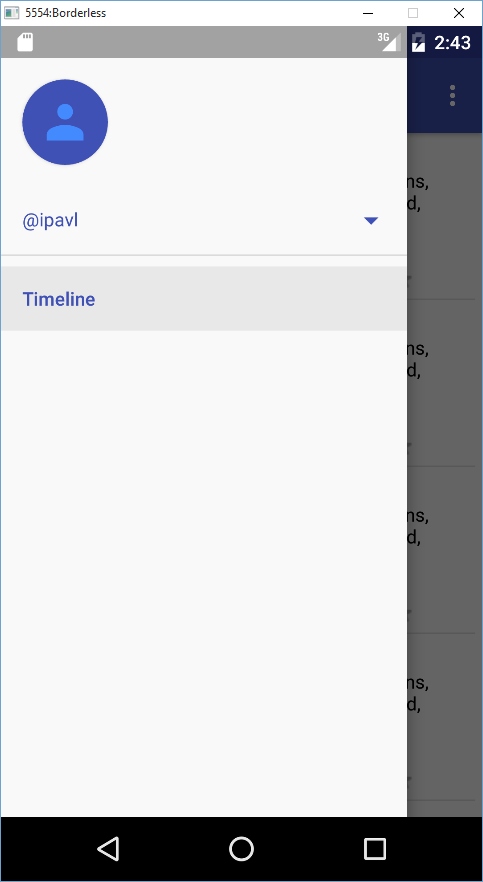
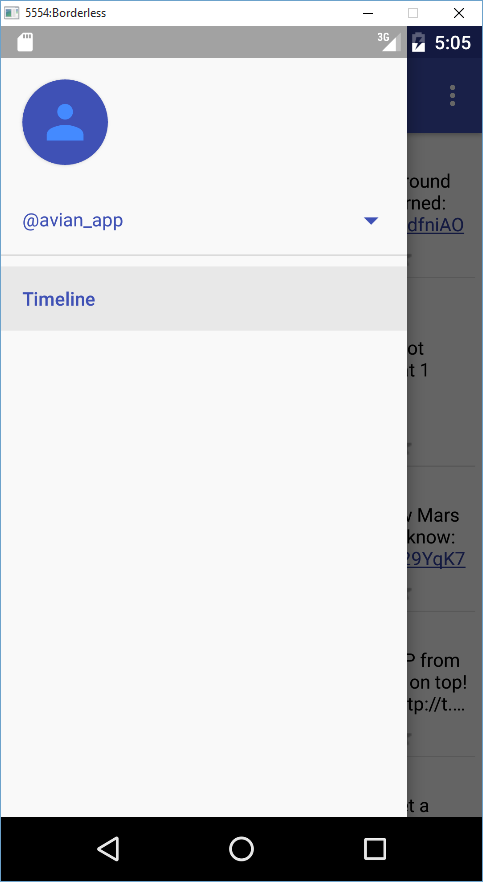
Add service to fetch and display tweets

diff --git a/app/src/main/java/ca/ianp/avian/fragment/TimelineFragment.kt b/app/src/main/java/ca/ianp/avian/fragment/TimelineFragment.kt
@@ -1,10 +1,16 @@
 package ca.ianp.avian.fragment
 
+import android.content.BroadcastReceiver
+import android.content.Context
+import android.content.Intent
+import android.content.IntentFilter
 import android.support.v4.app.Fragment
 import android.os.Bundle
+import android.os.Parcel
 import android.support.v7.widget.LinearLayoutManager
 import android.support.v7.widget.RecyclerView
 import android.text.format.DateUtils
+import android.util.Log
 import android.view.LayoutInflater
 import android.view.View
 import android.view.ViewGroup
@@ -12,6 +18,8 @@ import android.view.ViewGroup
 import ca.ianp.avian.R
 import ca.ianp.avian.adapter.TimelineAdapter
 import ca.ianp.avian.data.Tweet
+import ca.ianp.avian.service.TimelineService
+import ca.ianp.avian.util.Constants
 
 import kotlinx.android.synthetic.fragment_timeline.*
 import kotlinx.android.synthetic.fragment_timeline.view.*
@@ -22,33 +30,52 @@ import java.util.*
  */
 public class TimelineFragment : Fragment() {
 
+    private var receiver: BroadcastReceiver? = null
+
     override fun onCreateView(inflater: LayoutInflater?, container: ViewGroup?, savedInstanceState: Bundle?): View? {
         val view: View = inflater!!.inflate(R.layout.fragment_timeline, container, false)
 
-        val tweets: ArrayList<Tweet> = ArrayList<Tweet>();
+        val tweets: ArrayList<Tweet>? = ArrayList<Tweet>()
+        val parcel: Parcel = Parcel.obtain()
 
-        // TODO: Replace with actual data
-        for (i in 0..2000) {
-            // Instead of displaying the raw date, convert it to a relative time, e.g. "2 hours ago"
-            val createdAtRelative = DateUtils.getRelativeTimeSpanString(
-                    System.currentTimeMillis() - i * 60 * 360,
-                    System.currentTimeMillis(),
-                    DateUtils.SECOND_IN_MILLIS
-            )
+        parcel.writeLong(-1)
+        parcel.writeString("")
+        parcel.writeString("")
+        parcel.writeString("")
+        parcel.writeString("")
+        parcel.setDataPosition(0)
 
-            tweets.add(Tweet(i.toLong(), "DummyUser" + i, "",
-                    createdAtRelative.toString(),
-                    "Lorem ipsum dolor sit amet, eum ad ridens, laoreet delicatissimi. Tale malorum" +
-                            "mel ad, pri ridens corrumpit cu? In choro http://example.com!"));
-        }
+        tweets!!.add(Tweet(parcel))
 
-        val adapter: TimelineAdapter = TimelineAdapter(tweets)
-        val recycler: RecyclerView = view.recycler_view
+        view.recycler_view.setAdapter(TimelineAdapter(tweets))
+        view.recycler_view.setHasFixedSize(true)
+        view.recycler_view.setLayoutManager(LinearLayoutManager(container?.getContext()))
 
-        recycler.setAdapter(adapter)
-        recycler.setHasFixedSize(true)
-        recycler.setLayoutManager(LinearLayoutManager(container?.getContext()))
-
+        receiver = TimelineReceiver()
+        getActivity().registerReceiver(receiver, IntentFilter(Constants.INTENT_UPDATE_TIMELINE))
+        getActivity().startService(Intent(getActivity(), javaClass<TimelineService>()))
+        Log.d(Constants.TAG, "Starting service")
         return view
+    }
+
+    override fun onDestroyView() {
+        super.onDestroyView()
+
+        try {
+            Log.d(Constants.TAG, "Stopping service")
+            getActivity().stopService(Intent(getActivity(), javaClass<TimelineService>()))
+            getActivity().unregisterReceiver(receiver)
+        } catch (e: Exception) {
+            e.getMessage()
+        }
+    }
+
+    private inner class TimelineReceiver() : BroadcastReceiver() {
+        override fun onReceive(context: Context, intent: Intent) {
+            val tweets: ArrayList<Tweet> = intent.getParcelableArrayListExtra(
+                    Constants.INTENT_TWEETS_LIST)
+            Log.d(Constants.TAG, "Received tweets")
+            recycler_view.setAdapter(TimelineAdapter(tweets))
+        }
     }
 }

diff --git a/app/src/main/java/ca/ianp/avian/service/TimelineService.kt b/app/src/main/java/ca/ianp/avian/service/TimelineService.kt
@@ -1,0 +1,107 @@
+package ca.ianp.avian.service
+
+import android.app.Service
+import android.content.Intent
+import android.content.SharedPreferences
+import android.os.AsyncTask
+import android.os.IBinder
+import android.os.Parcel
+import android.preference.PreferenceManager
+import android.text.format.DateUtils
+import android.util.Log
+import ca.ianp.avian.data.Tweet
+import ca.ianp.avian.util.Constants
+import twitter4j.Status
+import twitter4j.Twitter
+import twitter4j.TwitterFactory
+import twitter4j.conf.Configuration
+import twitter4j.conf.ConfigurationBuilder
+import java.util.ArrayList
+
+public class TimelineService() : Service() {
+    private var prefs: SharedPreferences? = null
+
+    private var updater: FetchTweets? = null
+    private var twitter: Twitter? = null
+
+    override fun onCreate() {
+        super.onCreate()
+
+        prefs = PreferenceManager.getDefaultSharedPreferences(this)
+
+        val token: String = prefs!!.getString(Constants.PREFS_USER_TOKEN, null)
+        val secret: String = prefs!!.getString(Constants.PREFS_USER_SECRET, null)
+
+        // Configuration for the Twitter4J instance
+        val twitterConfig: Configuration = ConfigurationBuilder()
+                .setOAuthConsumerKey(Constants.TWITTER_KEY)
+                .setOAuthConsumerSecret(Constants.TWITTER_SECRET)
+                .setOAuthAccessToken(token)
+                .setOAuthAccessTokenSecret(secret)
+                .setDebugEnabled(true)
+                .build()
+
+        twitter = TwitterFactory(twitterConfig).getInstance()
+    }
+
+    override fun onStartCommand(intent: Intent, flags: Int, startId: Int): Int {
+        super.onStartCommand(intent, flags, startId)
+
+        updater = FetchTweets()
+        updater!!.execute()
+
+        return Service.START_STICKY
+    }
+
+    override fun onBind(intent: Intent): IBinder? {
+        return null;
+    }
+
+    private inner class FetchTweets : AsyncTask<String, String, ArrayList<Tweet>>() {
+
+        override fun doInBackground(vararg params: String): ArrayList<Tweet> {
+            val tweets: ArrayList<Tweet> = ArrayList<Tweet>()
+
+            try {
+                Log.d(Constants.TAG, "Fetching tweets")
+                // Get the user's home timeline
+                val statuses: List<Status> = twitter!!.getHomeTimeline()
+
+                Log.d(Constants.TAG, "Tweets: " + statuses.size())
+
+                // Convert the Status objects to Tweet objects and add them to the ArrayList
+                for (status: Status in statuses) {
+                    val parcel: Parcel = Parcel.obtain()
+
+                    parcel.writeLong(status.getId())
+                    parcel.writeString(status.getUser().getScreenName())
+                    parcel.writeString(status.getUser().getProfileImageURLHttps())
+                    parcel.writeString(DateUtils.getRelativeTimeSpanString(
+                            status.getCreatedAt().getTime(),
+                            System.currentTimeMillis(),
+                            DateUtils.SECOND_IN_MILLIS).toString()
+                    )
+                    parcel.writeString(status.getText())
+                    parcel.setDataPosition(0)
+
+                    tweets.add(Tweet(parcel))
+                }
+            } catch (e: Exception) {
+                e.printStackTrace()
+            }
+
+            return tweets
+        }
+
+        override fun onPostExecute(tweets: ArrayList<Tweet>) {
+            if (tweets.size() > 0) {
+                val intent: Intent = Intent(Constants.INTENT_UPDATE_TIMELINE)
+                intent.putParcelableArrayListExtra(Constants.INTENT_TWEETS_LIST, tweets)
+                Log.d(Constants.TAG, "Broadcasting tweets")
+                sendBroadcast(intent)
+            } else {
+                // TODO: Handle no result case
+            }
+        }
+    }
+}

diff --git a/app/src/main/java/ca/ianp/avian/data/Tweet.kt b/app/src/main/java/ca/ianp/avian/data/Tweet.kt
@@ -1,12 +1,47 @@
 package ca.ianp.avian.data
 
-/**
- * Represents an individual tweet.
- */
-data class Tweet(
-        val id: Long,
-        val author: String,
-        val avatar: String,
-        val createdAt: String,
-        val content: String
-)
+import android.os.Parcel
+import android.os.Parcelable
+
+data class Tweet(p: Parcel) : Parcelable {
+
+    var id: Long
+    var author: String
+    var avatar: String
+    var createdAt: String
+    var content: String
+
+
+    init {
+        id = p.readLong()
+        author = p.readString()
+        avatar = p.readString()
+        createdAt = p.readString()
+        content = p.readString()
+    }
+
+    override fun describeContents(): Int {
+        return 0
+    }
+
+    override fun writeToParcel(dest: Parcel, flags: Int) {
+        dest.writeLong(id)
+        dest.writeString(author)
+        dest.writeString(avatar)
+        dest.writeString(createdAt)
+        dest.writeString(content)
+    }
+
+    companion object {
+
+        public val CREATOR: Parcelable.Creator<Tweet> = object : Parcelable.Creator<Tweet> {
+            override fun createFromParcel(p: Parcel): Tweet {
+                return Tweet(p)
+            }
+
+            override fun newArray(size: Int): Array<Tweet> {
+                throw UnsupportedOperationException()
+            }
+        }
+    }
+}

diff --git a/app/src/main/java/ca/ianp/avian/util/Constants.kt b/app/src/main/java/ca/ianp/avian/util/Constants.kt
@@ -9,6 +9,8 @@ public object Constants {
     public val TAG: String = "Avian"
     public val URI_SCHEME: String = "avian:///"
 
+    public val UPDATE_FREQUENCY: Long = 1 * 60 * 1000 // the first number is the time in minutes
+
     public val TWITTER_KEY: String = BuildConfig.TWITTER_CONSUMER_KEY
     public val TWITTER_SECRET: String = BuildConfig.TWITTER_CONSUMER_SECRET
 
@@ -20,4 +22,7 @@ public object Constants {
     public val EXTRA_USER_SCREEN_NAME: String = "user_screen_name"
 
     public val INTENT_OAUTH_RESULT: Int = 0x100;
+
+    public val INTENT_UPDATE_TIMELINE: String = "update_timeline";
+    public val INTENT_TWEETS_LIST: String = "tweets_list";
 }

diff --git a/README.md b/README.md
@@ -7,7 +7,7 @@ Done so far
 -----------
 
 * Twitter authentication/app authorization
-* Timeline adapter set up and populated with dummy data
+* Loading the user's home timeline
 
 Screenshots
 -----------
